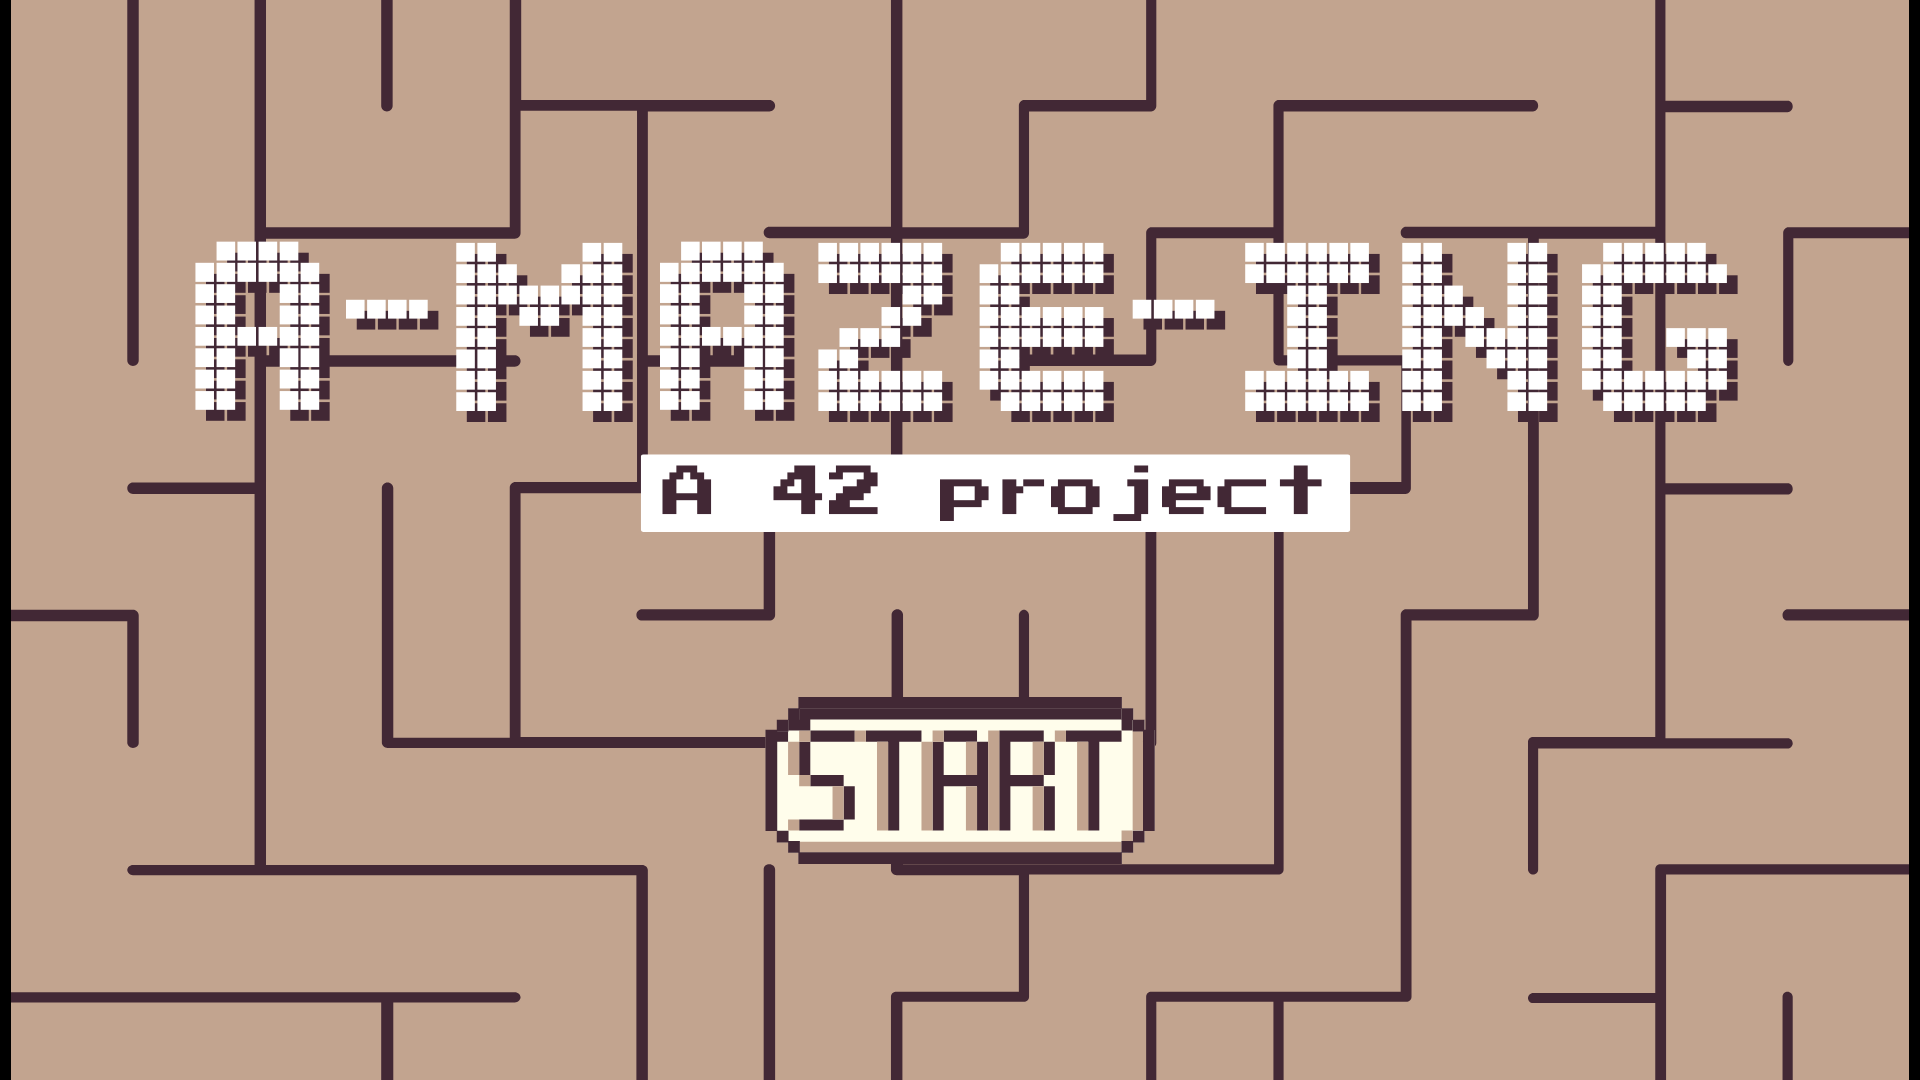
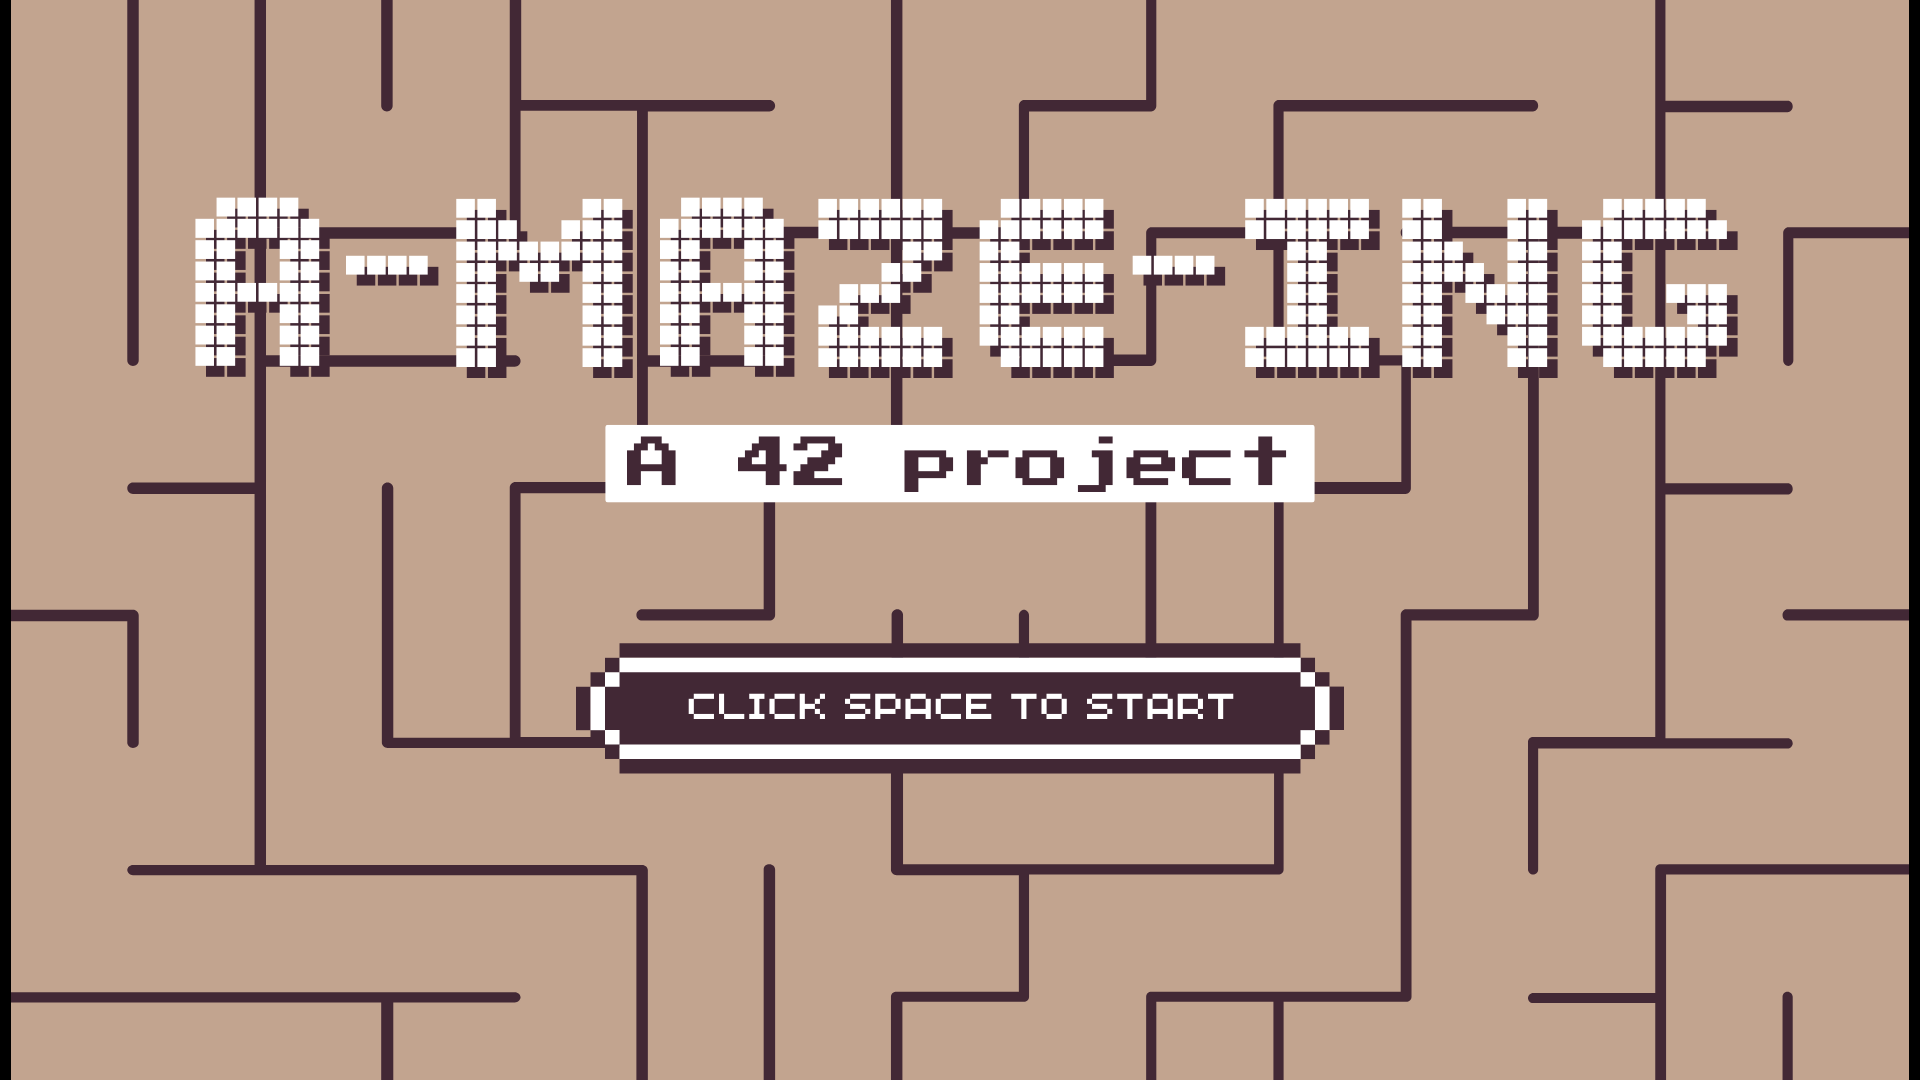
[Display]: modified welcome page

Changed region(s): [[0.0938, 0.1833, 0.9062, 0.5194], [0.2812, 0.5806, 0.7188, 0.825]]

diff --git a/display/engine/input_manager.py b/display/engine/input_manager.py
@@ -1,78 +1,70 @@
-# ************************************************************************* #
-#                                                                           #
-#                                                      :::      ::::::::    #
-#  input_manager.py                                  :+:      :+:    :+:    #
-#                                                  +:+ +:+         +:+      #
-#  By: ialrandr <[email redacted]>         +#+  +:+       +#+         #
-#                                              +#+#+#+#+#+   +#+            #
-#  Created: 2026/05/01 13:14:59 by ialrandr        #+#    #+#               #
-#  Updated: 2026/06/05 10:51:46 by ialrandr        ###   ########.fr        #
-#                                                                           #
-# ************************************************************************* #
-
 from typing import Any
 from .keymap import Keymap
 
-input_manager: dict[str, bool] = {
-    "ESC": False,
-    "ENTER": False,
-    "S": False,
-    "P": False,
-    "G": False,
-    "C": False,
-    "UP": False,
-    "DOWN": False,
-    "LEFT": False,
-    "RIGHT": False,
-}
-
 
 class Hooks():
+    input_manager: dict[str, bool] = {
+        "ESC": False,
+        "ENTER": False,
+        "S": False,
+        "P": False,
+        "G": False,
+        "C": False,
+        "E": False,
+        "UP": False,
+        "DOWN": False,
+        "LEFT": False,
+        "RIGHT": False,
+    }
+
     @staticmethod
     def key_pressed(keycode: int, param: Any) -> None:
         if keycode == Keymap.get("esc"):
-            input_manager["ESC"] = True
+            Hooks.input_manager["ESC"] = True
 
         if keycode == Keymap.get("enter"):
-            input_manager["ENTER"] = True
+            Hooks.input_manager["ENTER"] = True
 
         if keycode == Keymap.get("s"):
-            input_manager["S"] = True
+            Hooks.input_manager["S"] = True
 
         if keycode == Keymap.get("p"):
-            input_manager["P"] = True
+            Hooks.input_manager["P"] = True
 
         if keycode == Keymap.get("g"):
-            input_manager["G"] = True
+            Hooks.input_manager["G"] = True
 
         if keycode == Keymap.get("c"):
-            input_manager["C"] = True
+            Hooks.input_manager["C"] = True
+
+        if keycode == Keymap.get("e"):
+            Hooks.input_manager["E"] = True
 
         if keycode == Keymap.get("up"):
-            input_manager["UP"] = True
+            Hooks.input_manager["UP"] = True
 
         if keycode == Keymap.get("down"):
-            input_manager["DOWN"] = True
+            Hooks.input_manager["DOWN"] = True
 
         if keycode == Keymap.get("left"):
-            input_manager["LEFT"] = True
+            Hooks.input_manager["LEFT"] = True
 
         if keycode == Keymap.get("right"):
-            input_manager["RIGHT"] = True
+            Hooks.input_manager["RIGHT"] = True
 
     @staticmethod
     def key_released(keycode: int, param: Any) -> None:
         if keycode == Keymap.get("esc"):
-            input_manager["ESC"] = False
+            Hooks.input_manager["ESC"] = False
 
         if keycode == Keymap.get("up"):
-            input_manager["UP"] = False
+            Hooks.input_manager["UP"] = False
 
         if keycode == Keymap.get("down"):
-            input_manager["DOWN"] = False
+            Hooks.input_manager["DOWN"] = False
 
         if keycode == Keymap.get("left"):
-            input_manager["LEFT"] = False
+            Hooks.input_manager["LEFT"] = False
 
         if keycode == Keymap.get("right"):
-            input_manager["RIGHT"] = False
+            Hooks.input_manager["RIGHT"] = False

diff --git a/display/maze_level.py b/display/maze_level.py
@@ -8,7 +8,7 @@ except ImportError:
 import random
 from typing import Any, Generator
 from .engine.window import Window
-from .engine.input_manager import input_manager
+from .engine.input_manager import Hooks
 from .renderer.renderer import Draw
 from .display_config import DisplayConfig
 from core import MazeManager
@@ -59,13 +59,13 @@ class Game:
             key: str
     ) -> None:
         if self.done_gen:
-            input_manager[key] = False
+            Hooks.input_manager[key] = False
             return
         try:
             self.maze = next(generator)
             self.draw.maze_hex = self.maze.grid_hex
         except StopIteration:
-            input_manager[key] = False
+            Hooks.input_manager[key] = False
             self.done_gen = True
             self.buff_cache = np.copy(self.draw.buff_3d)
             try:
@@ -73,7 +73,7 @@ class Game:
             except Exception as e:
                 print(f"Error: {e}")
         except Exception as e:
-            input_manager[key] = False
+            Hooks.input_manager[key] = False
             print(f"Error: {e}")
 
         if not self.done_gen:
@@ -83,14 +83,14 @@ class Game:
 
     def update(self, _: Any) -> None:
         try:
-            if input_manager["ESC"]:
+            if Hooks.input_manager["ESC"]:
                 self.window.exit_window(None)
-                input_manager["ESC"] = False
+                Hooks.input_manager["ESC"] = False
 
-            if input_manager["ENTER"]:
+            if Hooks.input_manager["ENTER"]:
                 self.generate_step(self.gen, "ENTER")
 
-            if input_manager["G"]:
+            if Hooks.input_manager["G"]:
                 if not self.regen_maze:
                     self.regen_maze = True
                     self.draw.path = []
@@ -103,16 +103,16 @@ class Game:
                 if self.done_gen:
                     self.regen_maze = False
 
-            if input_manager["S"] and self.done_gen:
+            if Hooks.input_manager["S"] and self.done_gen:
                 if self.done_solve:
-                    input_manager["S"] = False
+                    Hooks.input_manager["S"] = False
                     return
                 try:
                     self.draw.path.append(
                         MazeManager.grid_to_cell(next(self.solve))
                     )
                 except StopIteration as e:
-                    input_manager["S"] = False
+                    Hooks.input_manager["S"] = False
                     self.draw.buff_3d[:] = self.buff_cache
                     try:
                         self.draw.path = [
@@ -124,7 +124,7 @@ class Game:
                         print(f"Error: {e}")
                         return
                 except Exception as e:
-                    input_manager["S"] = False
+                    Hooks.input_manager["S"] = False
                     print(f"Error: {e}")
                     return
 
@@ -133,27 +133,27 @@ class Game:
                 self.draw.present()
                 self.window.render_image()
 
-            if input_manager["P"] and self.done_solve:
+            if Hooks.input_manager["P"] and self.done_solve:
                 try:
                     if self.path_show:
-                        input_manager["P"] = False
+                        Hooks.input_manager["P"] = False
                         self.draw.render_path()
                         self.draw.entry_and_exit()
                         self.draw.present()
                         self.window.render_image()
                         self.path_show = False
                     elif not self.path_show:
-                        input_manager["P"] = False
+                        Hooks.input_manager["P"] = False
                         self.draw.buff_3d[:] = self.buff_cache
                         self.draw.present()
                         self.window.render_image()
                         self.path_show = True
                 except Exception as e:
-                    input_manager["P"] = False
+                    Hooks.input_manager["P"] = False
                     print(f"Error: {e}")
 
-            if input_manager["C"] and self.done_gen:
-                input_manager["C"] = False
+            if Hooks.input_manager["C"] and self.done_gen:
+                Hooks.input_manager["C"] = False
                 try:
                     self.draw.change_wall_color()
                     self.draw.maze()
@@ -166,25 +166,39 @@ class Game:
                 except Exception as e:
                     print(f"Error: {e}")
 
-            if input_manager["UP"]:
+            if Hooks.input_manager["UP"]:
                 self.draw.camera_y -= self.draw.speed
                 self.draw.present()
                 self.window.render_image()
 
-            if input_manager["DOWN"]:
+            if Hooks.input_manager["DOWN"]:
                 self.draw.camera_y += self.draw.speed
                 self.draw.present()
                 self.window.render_image()
 
-            if input_manager["LEFT"]:
+            if Hooks.input_manager["LEFT"]:
                 self.draw.camera_x -= self.draw.speed
                 self.draw.present()
                 self.window.render_image()
 
-            if input_manager["RIGHT"]:
+            if Hooks.input_manager["RIGHT"]:
                 self.draw.camera_x += self.draw.speed
                 self.draw.present()
                 self.window.render_image()
+
+            if Hooks.input_manager["E"]:
+                if not self.done_solve:
+                    print("Error: Maze not generated or solved yet")
+                elif self.done_solve:
+                    MazeManager.write_maze(
+                        self.configs["output_file"],
+                        self.draw.maze_hex,
+                        self.configs["entry"],
+                        self.configs["exit"],
+                        self.draw.path
+                    )
+                Hooks.input_manager["E"] = False
+
 
         except (KeyboardInterrupt, EOFError):
             self.window.exit_window(None)

diff --git a/display/engine/keymap.py b/display/engine/keymap.py
@@ -5,6 +5,7 @@ class Keymap:
     P = 0x70
     G = 0x67
     C = 0x63
+    E = 0x65
     UP = 0xff52
     DOWN = 0xff54
     LEFT = 0xff51